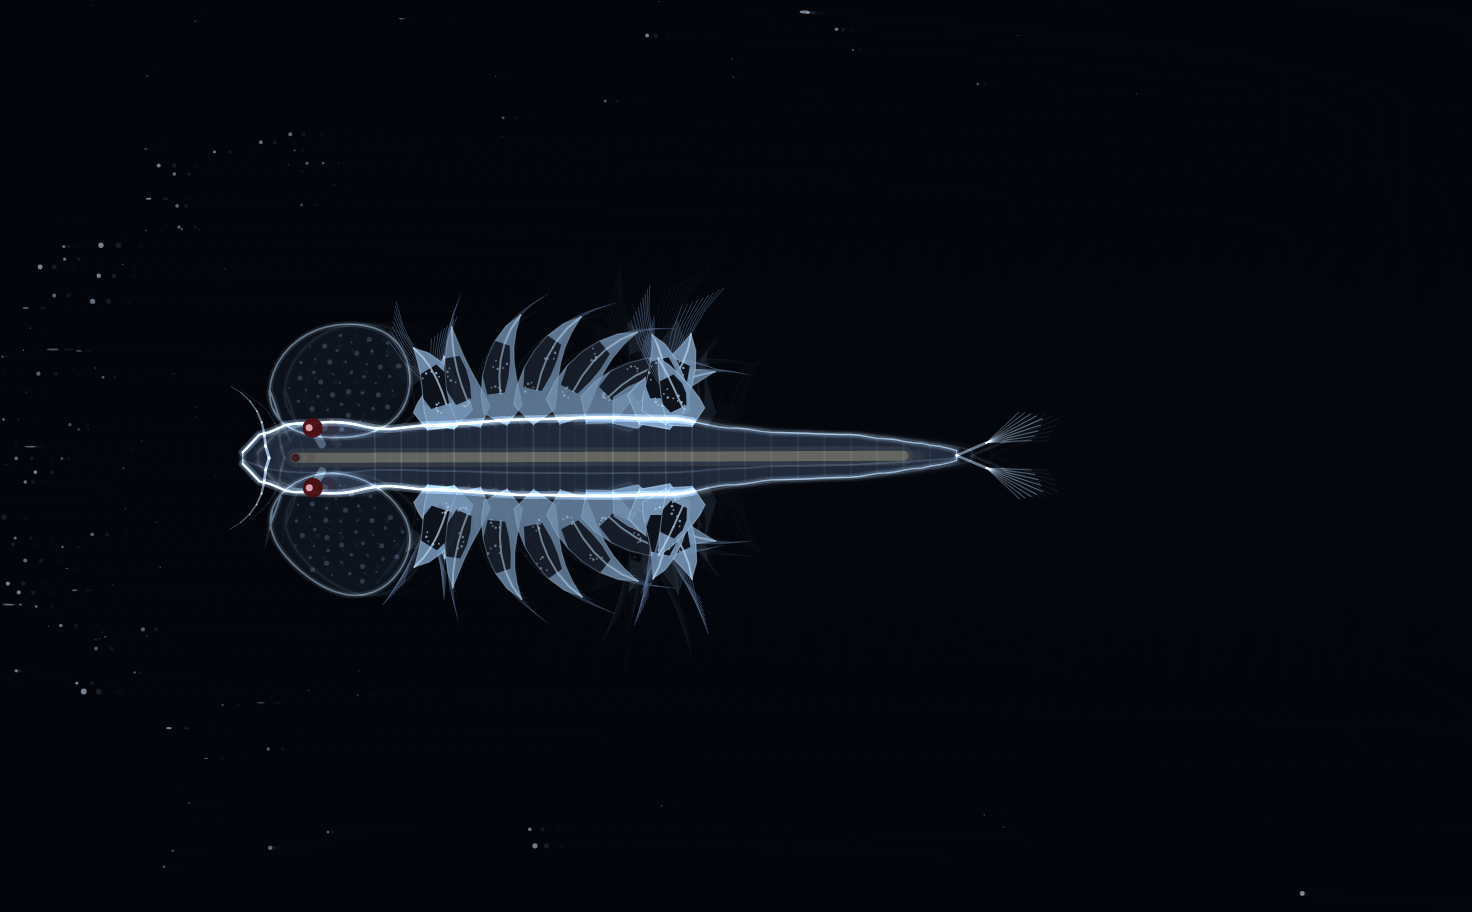
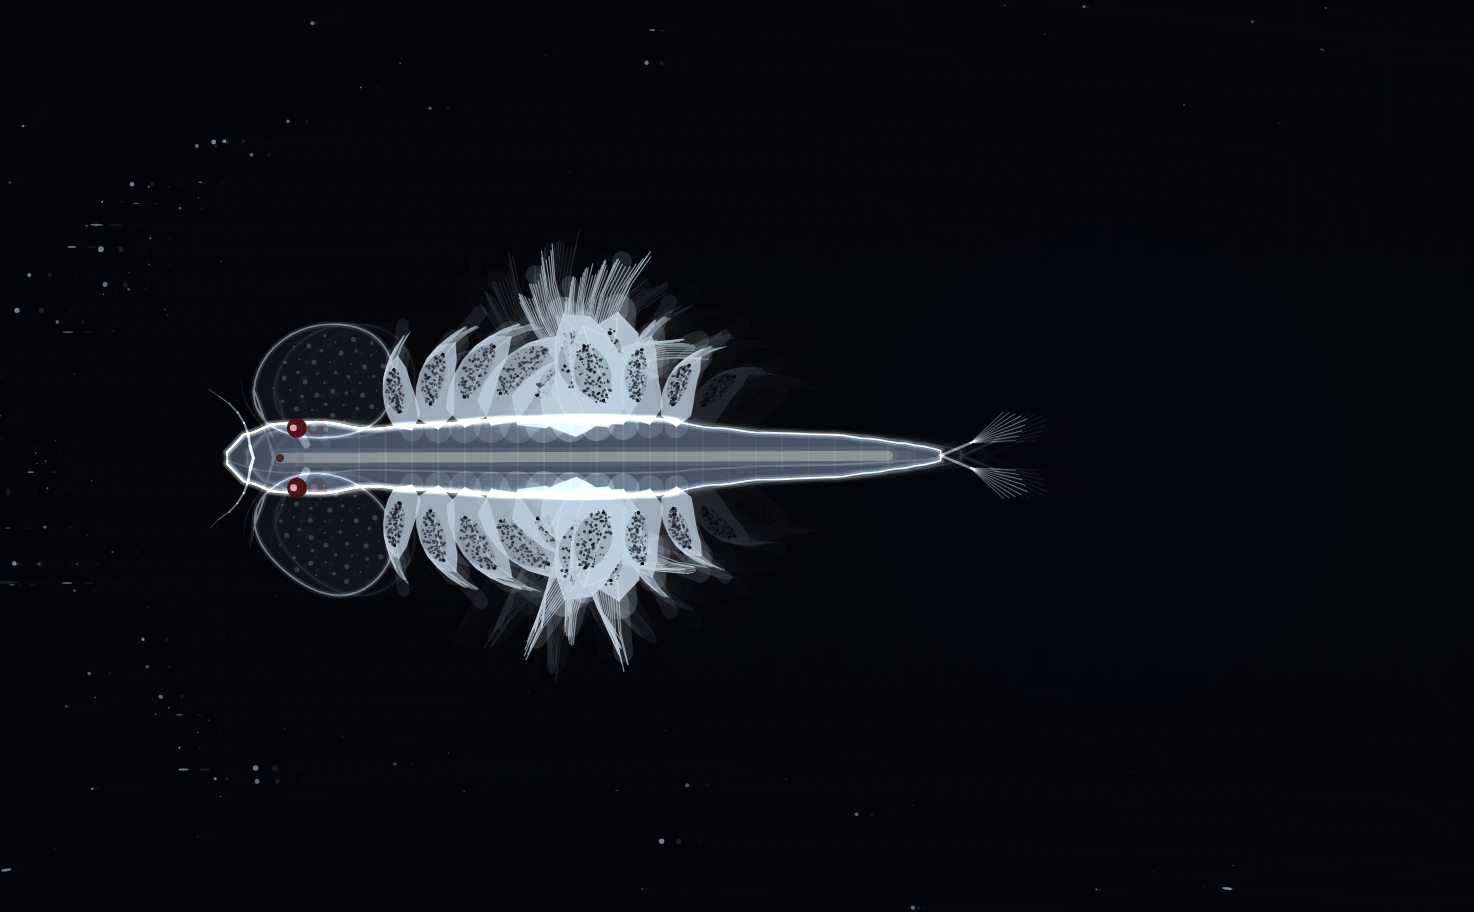
Match the photograph's tone by measuring it, not by eye
Judging "does it look like the photo?" by eye kept producing changes that
felt better and measured worse. Sampling both images over proportionally
identical regions -- boxes defined in body-length units so the comparison
is like for like -- turned it into arithmetic.

                    reference   before   after
  mean luminance          149       92     138
  p90 luminance           213      152     206
  lit fraction            52%      24%     43%
  limb-row lit            72%      42%     52%
  warmth R-B              -20      -34     -24

Three findings.

The tissue was the wrong colour by a measurable amount. Sampling the
specimen gives R-B = -20, a near-neutral white with a slight cool cast.
The palette was [186,214,236], R-B = -50, which renders an animal that is
distinctly blue where the photograph is silver-white.

The gill sacs were inside-out. They were drawn as near-black ovals with a
few bright specks; sampling one in the reference gives mean luminance 154
with a 10th percentile of 74 -- bright tissue densely packed with dark
granules, its darkness the average of fine structure rather than flat
ink. Inverting that was the largest single visual gain.

A darkfield photograph is not hard-edged. Nearly all the remaining
lit-fraction gap was pure black between structures where the reference
has scatter and halation. Added a soft additive halo drawn before the
opaque limbs, so solid tissue covers it where they overlap and it
survives only at the edges.
[…]

Changed region(s): [[0.125, 0.2763, 0.7188, 0.7368]]

diff --git a/src/render/creatureRenderer.js b/src/render/creatureRenderer.js
@@ -97,7 +97,7 @@ export class CreatureRenderer {
 
     // Dim interior — transparent tissue, so only a little light scatters through.
     p.noStroke();
-    p.fill(tint[0] * 0.34, tint[1] * 0.38, tint[2] * 0.46, 92);
+    p.fill(tint[0] * 0.42, tint[1] * 0.46, tint[2] * 0.52, 150);
     closedPoly(p, ring);
 
     // Bright rim — the longest optical path through the specimen is at its edge.
@@ -105,7 +105,7 @@ export class CreatureRenderer {
     // constant-weight outline makes the slender abdomen read as a thick glowing
     // tube, which is the single thing that most made this look like a diagram
     // rather than a specimen.
-    glowStroke(p, (pp) => closedPoly(pp, ring), tint, 0.75, 120, this.cfg.glowLayers);
+    glowStroke(p, (pp) => closedPoly(pp, ring), tint, 0.85, 145, this.cfg.glowLayers);
 
     const heavy = Math.round(left.length * 0.62);
     const anterior = (side) => (pp) => {
@@ -113,8 +113,8 @@ export class CreatureRenderer {
       for (let i = 0; i <= heavy; i++) pp.vertex(side[i].x, side[i].y);
       pp.endShape();
     };
-    glowStroke(p, anterior(left), tint, 1.25, 150, 2);
-    glowStroke(p, anterior(right), tint, 1.25, 150, 2);
+    glowStroke(p, anterior(left), tint, 1.15, 140, 2);
+    glowStroke(p, anterior(right), tint, 1.15, 140, 2);
 
     // A faint inner highlight just inside the dorsal margin gives the body
     // volume without any actual shading model. Built from the physics nodes,
@@ -148,7 +148,7 @@ export class CreatureRenderer {
       const w = morph.halfWidth[i] * 0.92;
       const q = chain.pos[i];
       // Fainter down the abdomen, where the cuticle is thinner.
-      p.stroke(tint[0], tint[1], tint[2], i <= morph.thoraxEnd ? 26 : 14);
+      p.stroke(tint[0], tint[1], tint[2], i <= morph.thoraxEnd ? 16 : 10);
       p.line(q.x - n.x * w, q.y - n.y * w, q.x + n.x * w, q.y + n.y * w);
     }
   }
@@ -230,6 +230,27 @@ export class CreatureRenderer {
       }
     }
 
+    // Halation pass. A real darkfield photograph is not hard-edged: bright
+    // structures bleed a soft halo into the field around them, and the gaps
+    // between limbs are filled with out-of-focus scatter rather than pure
+    // black. Measuring the reference put its limb region at 72 % lit against
+    // 48 % here, and nearly all of that difference was black gap. Drawn
+    // additively BEFORE the opaque limbs, so the solid tissue covers it where
+    // they overlap and it survives only around the edges -- which is what
+    // halation is.
+    p.blendMode(p.ADD);
+    p.noFill();
+    for (const g of geo) {
+      p.strokeWeight(g.len * 0.30);
+      p.stroke(tint[0], tint[1], tint[2], lerp(26, 44, g.spread));
+      openPoly(p, g.spine);
+      p.strokeWeight(g.len * 0.16);
+      p.stroke(tint[0], tint[1], tint[2], lerp(20, 34, g.spread));
+      openPoly(p, [g.spine[g.spine.length - 1],
+                   new Vec2(g.tip.x + g.tipDir.x * g.len * 0.42,
+                            g.tip.y + g.tipDir.y * g.len * 0.42)]);
+    }
+
     // Anterior first, so each limb is overlapped by the one behind it, as in
     // the photograph. Opaque compositing throughout — see the note above.
     p.blendMode(p.BLEND);
@@ -247,37 +268,45 @@ export class CreatureRenderer {
 
     // Membrane — solid pale tissue.
     p.noStroke();
-    p.fill(tint[0] * 0.62, tint[1] * 0.68, tint[2] * 0.76, lerp(190, 228, sp));
+    p.fill(tint[0] * 0.86, tint[1] * 0.90, tint[2] * 0.94, lerp(196, 226, sp));
     closedPoly(p, g.left.concat(g.right.slice().reverse()));
 
-    // Gill sac — the one dark structure on the limb.
-    p.fill(9, 13, 21, lerp(215, 245, sp));
-    closedPoly(p, g.sac);
+    // Gill sac.
+    //
+    // NOT a dark oval with bright specks — that was backwards, and measuring
+    // the reference is what caught it. Sampling a sac there gives a mean
+    // luminance of 154 with a 10th percentile of 74: it is BRIGHT tissue
+    // densely packed with DARK granules, and its apparent darkness is the
+    // average of fine structure rather than an area of flat ink. So the
+    // membrane keeps its brightness, takes only a light wash, and the
+    // granulation is drawn as many small dark dots over it.
+    p.fill(16, 21, 30, lerp(30, 46, sp));
+    closedCurve(p, g.sac);
 
-    // Granules: fine bright scatterers on the dark ground.
-    p.fill(tint[0], tint[1], tint[2], lerp(120, 175, sp));
-    // Every other station, five granules each. Denser than this looks no
-    // different at any realistic zoom and costs ~1500 circles a frame.
-    for (let ci = 0; ci < g.sacCentres.length; ci += 2) {
+    p.fill(11, 15, 23, lerp(150, 190, sp));
+    const spk = this._speckle, nspk = spk.length;
+    for (let ci = 0; ci < g.sacCentres.length; ci++) {
       const q = g.sacCentres[ci];
-      for (let k = 0; k < 5; k++) {
-        const s = this._speckle[(k * 5 + ci * 3 + g.index * 7) % this._speckle.length];
-        p.circle(q.mid.x + (s.x * 0.85) * q.w * q.px + (s.y * 0.9) * q.w * -q.py,
-                 q.mid.y + (s.x * 0.85) * q.w * q.py + (s.y * 0.9) * q.w * q.px,
-                 0.9 + (k % 2) * 0.4);
+      for (let k = 0; k < 6; k++) {
+        // Stride by a number coprime with the table length so successive
+        // granules land far apart on the spiral instead of clustering.
+        const s = spk[(ci * 17 + k * 7 + g.index * 5) % nspk];
+        p.circle(q.mid.x + (s.x * 0.92) * q.w * q.px + (s.y * 0.96) * q.w * -q.py,
+                 q.mid.y + (s.x * 0.92) * q.w * q.py + (s.y * 0.96) * q.w * q.px,
+                 1.0 + (k % 3) * 0.4);
       }
     }
 
     // Bright margins and the rib along the limb axis.
     p.noFill();
     p.strokeWeight(0.6);
-    p.stroke(tint[0], tint[1], tint[2], lerp(70, 110, sp));
+    p.stroke(tint[0], tint[1], tint[2], lerp(80, 120, sp));
     openPoly(p, g.left);
     openPoly(p, g.right);
     // One prominent rib per limb, as in the photograph — not a bright outline
     // on every edge, which turns the row into a lattice of intersecting lines.
-    p.strokeWeight(1.0);
-    p.stroke(tint[0], tint[1], tint[2], lerp(135, 180, sp));
+    p.strokeWeight(0.8);
+    p.stroke(tint[0], tint[1], tint[2], lerp(95, 135, sp));
     openPoly(p, g.spine.slice(2));
   }
 
@@ -288,30 +317,38 @@ export class CreatureRenderer {
    * are near-parallel, close-packed and only gently splayed.
    */
   _setalTuft(p, g, tint) {
-    const nSet = 9;
-    const L = g.len * lerp(0.30, 0.54, g.spread);
-    const fanMax = lerp(0.05, 0.17, g.spread);
+    const nSet = 22;
+    const L = g.len * lerp(0.34, 0.60, g.spread);
+    const fanMax = lerp(0.06, 0.19, g.spread);
     const margin = g.side > 0 ? g.left : g.right;
     const last = margin.length - 1;
     p.noFill();
-    p.strokeWeight(0.5);
-    p.stroke(tint[0] * 0.50, tint[1] * 0.56, tint[2] * 0.66, lerp(70, 120, g.spread));
+    // Dense enough to merge into tissue. In the reference the setal tufts are
+    // not a comb of separate hairs — they close up into a continuous feathered
+    // mass that fills the space between neighbouring limbs, and that mass is
+    // most of why the thorax reads as packed rather than gappy.
+    p.strokeWeight(0.6);
+    p.stroke(tint[0] * 0.84, tint[1] * 0.88, tint[2] * 0.92, lerp(120, 175, g.spread));
     const baseA = Math.atan2(g.tipDir.y, g.tipDir.x);
     for (let s = 0; s < nSet; s++) {
       const f = s / (nSet - 1);
-      const kf = (0.66 + 0.34 * f) * last;
+      const kf = (0.64 + 0.36 * f) * last;
       const k0 = Math.min(last - 1, Math.floor(kf));
       const fr = kf - k0;
       let px = lerp(margin[k0].x, margin[k0 + 1].x, fr);
       let py = lerp(margin[k0].y, margin[k0 + 1].y, fr);
-      const a0 = baseA + (f - 0.5) * 2 * fanMax;
+      // Irregular length and angle per seta. A perfectly even fan reads as a
+      // drawn graphic; real setae vary.
+      const jitter = this._speckle[(s * 5 + g.index * 7) % this._speckle.length];
+      const a0 = baseA + (f - 0.5) * 2 * fanMax + jitter.y * 0.05;
+      const Lk = L * (0.78 + 0.34 * (jitter.x * 0.5 + 0.5));
       p.beginShape();
       p.vertex(px, py);
       const SEG = 2;
       for (let k = 1; k <= SEG; k++) {
         const a = a0 - (k / SEG) * 0.34 * g.side;
-        px += Math.cos(a) * (L / SEG);
-        py += Math.sin(a) * (L / SEG);
+        px += Math.cos(a) * (Lk / SEG);
+        py += Math.sin(a) * (Lk / SEG);
         p.vertex(px, py);
       }
       p.endShape();
@@ -343,11 +380,15 @@ export class CreatureRenderer {
     }
 
     // Paddle outline — a long tapering blade, not a pointed leaf.
-    const wMax = len * 0.26 * lerp(0.66, 1, spread);
+    const wMax = len * 0.30 * lerp(0.70, 1, spread);
     const left = [], right = [];
     for (let k = 0; k <= STEPS; k++) {
       const u = k / STEPS;
-      const w = wMax * Math.sin(Math.PI * Math.pow(u, 0.42)) ** 0.75;
+      // Broad almost to the tip, then a quick taper. The earlier profile fell
+      // to 38 % of full width by u = 0.8, which left the distal half of every
+      // limb thin and dim; in the reference the blade stays full-bodied and
+      // narrows only right at the end.
+      const w = wMax * Math.pow(Math.sin(Math.PI * Math.pow(u, 0.62)), 0.42);
       const a = spine[Math.max(0, k - 1)], b = spine[Math.min(STEPS, k + 1)];
       let dx = b.x - a.x, dy = b.y - a.y;
       const d = Math.hypot(dx, dy) || 1;
@@ -356,20 +397,33 @@ export class CreatureRenderer {
       right.push(new Vec2(spine[k].x - px * w, spine[k].y - py * w));
     }
 
-    // Gill sac: an oval over the middle third, biased to one margin.
+    // Gill sac.
+    //
+    // Sampled parametrically along the limb rather than at the blade's own
+    // vertices. Reusing those meant only the three that happened to fall inside
+    // the sac range qualified, so the "oval" was a hexagon and the granules
+    // piled into three merged blobs — the sac rendered as a hard black slab
+    // where the reference shows a soft, mid-toned, finely granular patch.
     const sac = [];
-    const a0 = 0.20, a1 = 0.78;
-    for (let k = 0; k <= STEPS; k++) {
-      const u = k / STEPS;
-      if (u < a0 || u > a1) continue;
-      const v = (u - a0) / (a1 - a0);
-      const w = wMax * 0.66 * Math.sin(Math.PI * v) ** 0.5;
-      const mid = Vec2.lerp(spine[k], side > 0 ? left[k] : right[k], 0.22);
-      const a = spine[Math.max(0, k - 1)], b = spine[Math.min(STEPS, k + 1)];
-      const dx = b.x - a.x, dy = b.y - a.y;
+    const a0 = 0.28, a1 = 0.82, SAC_N = 12;
+    const marg = side > 0 ? left : right;
+    for (let j = 0; j <= SAC_N; j++) {
+      const u = a0 + (a1 - a0) * (j / SAC_N);
+      const kf = u * STEPS;
+      const k0 = Math.min(STEPS - 1, Math.floor(kf));
+      const fr = kf - k0;
+      const cx = lerp(spine[k0].x, spine[k0 + 1].x, fr);
+      const cy = lerp(spine[k0].y, spine[k0 + 1].y, fr);
+      const mx = lerp(marg[k0].x, marg[k0 + 1].x, fr);
+      const my = lerp(marg[k0].y, marg[k0 + 1].y, fr);
+
+      const v = j / SAC_N;
+      const w = wMax * 0.60 * Math.sin(Math.PI * v) ** 0.55;
+      const mid = new Vec2(cx + (mx - cx) * 0.24, cy + (my - cy) * 0.24);
+
+      let dx = spine[k0 + 1].x - spine[k0].x, dy = spine[k0 + 1].y - spine[k0].y;
       const d = Math.hypot(dx, dy) || 1;
-      const px = -dy / d, py = dx / d;
-      sac.push({ mid, px, py, w });
+      sac.push({ mid, px: -dy / d, py: dx / d, w });
     }
     const sacRing = sac.map((q) => new Vec2(q.mid.x + q.px * q.w, q.mid.y + q.py * q.w))
       .concat(sac.slice().reverse().map((q) => new Vec2(q.mid.x - q.px * q.w, q.mid.y - q.py * q.w)));

diff --git a/src/config.js b/src/config.js
@@ -237,8 +237,14 @@ export const CONFIG = {
      * comet trail. Too much and the whole field turns to streaks.
      */
     persistence: 0.18,
-    bodyTint: [186, 214, 236],
-    gutTint: [196, 172, 110],
+    /**
+     * Tissue colour, measured off the reference rather than chosen. Sampling
+     * the specimen gives R-B = -20: a near-neutral white with only a slight
+     * cool cast. The old [186,214,236] was R-B = -50, which rendered the animal
+     * distinctly blue where the photograph is silver-white.
+     */
+    bodyTint: [220, 230, 236],
+    gutTint: [200, 188, 150],
     eyeTint: [74, 12, 16],
     particleCount: 320,
     particleAdvection: 0.55,

diff --git a/docs/MODEL.md b/docs/MODEL.md
@@ -443,6 +443,64 @@ pixels; both draw with plain `vertex()` now, at no visible cost.
 
 ---
 
+## 5d. Matching the photograph's tone, by measuring it
+
+Judging "does it look like the photo?" by eye kept producing changes that felt
+better and measured worse. Sampling both images over proportionally identical
+regions — boxes defined in body-length units so the comparison is like for
+like — turned it into arithmetic.
+
+![reference above, simulation below](reference-comparison.png)
+
+| region | metric | reference | before | after |
+|---|---|---|---|---|
+| whole animal | mean luminance | 149 | 92 | **138** |
+| whole animal | p90 luminance | 213 | 152 | **206** |
+| whole animal | lit fraction | 52 % | 24 % | 43 % |
+| limb row | lit fraction | 72 % | 42 % | 52 % |
+| tissue | warmth, R−B | −20 | −34 | **−24** |
+
+Three things came out of it.
+
+**The tissue was the wrong colour, and by a measurable amount.** Sampling the
+specimen gives R−B = −20: a near-neutral white with a slight cool cast. The
+palette had been `[186, 214, 236]`, R−B = −50, which renders an animal that is
+distinctly *blue* where the photograph is silver-white. Nobody would have
+called that out by eye; it just looked a bit synthetic.
+
+**The gill sacs were inside-out.** They had been drawn as near-black ovals with
+a few bright specks. Sampling one in the reference gives a mean luminance of
+154 with a 10th percentile of 74 — it is *bright tissue densely packed with
+dark granules*, and its apparent darkness is the average of fine structure
+rather than an area of flat ink. Inverting that was the single largest visual
+gain in this pass.
+
+**A darkfield photograph is not hard-edged.** Nearly all the remaining lit-
+fraction gap was pure black between structures, where the reference has
+out-of-focus scatter and halation around every bright thing. A soft additive
+halo drawn *before* the opaque limbs — so solid tissue covers it where they
+overlap and it survives only at the edges, which is what halation is — closes
+part of that.
+
+A process note worth recording, because it cost several wasted rounds: two of
+the edits in this pass silently failed to apply (a string replace that matches
+nothing is a no-op), and the numbers were then tuned against code that was
+never running. The measurements looked stubbornly flat and the visual would not
+improve. Verify that an edit landed before concluding anything from what it
+did.
+
+### What a 2-D vector renderer will not reach
+
+The remaining gap is mostly not tunable. The photograph has real depth of
+field, so limbs at different heights blur differently; it has genuine
+tissue texture at every scale; and its limbs are individually irregular in a
+way that procedural geometry, which draws eleven instances of one rule, is not.
+Getting closer than this means a different rendering approach — per-limb noise
+displacement of the outline, and a depth-ordered blur — rather than different
+constants.
+
+---
+
 ## 6. What is still wrong
 
 Ranked by how much each would improve the illusion.

diff --git a/README.md b/README.md
@@ -20,9 +20,13 @@ per-column brightness runs, not by eye. See
 
 ![anatomy](docs/anatomy.png)
 
-The limbs were rebuilt the same way — reference enlargement above, simulation
-below. Each thoracopod is a recurved paddle carrying a dark granular gill sac,
-with a setal tuft on its distal margin:
+Tone was matched the same way — sampling both images over proportionally
+identical regions rather than judging by eye. That caught a tissue colour that
+was measurably too blue (R−B −50 against the reference's −20) and gill sacs
+rendered inside-out: they are bright tissue packed with dark granules, not dark
+ovals with bright specks. Reference above, simulation below:
+
+![reference comparison](docs/reference-comparison.png)
 
 ![limb comparison](docs/limb-comparison.png)
 
